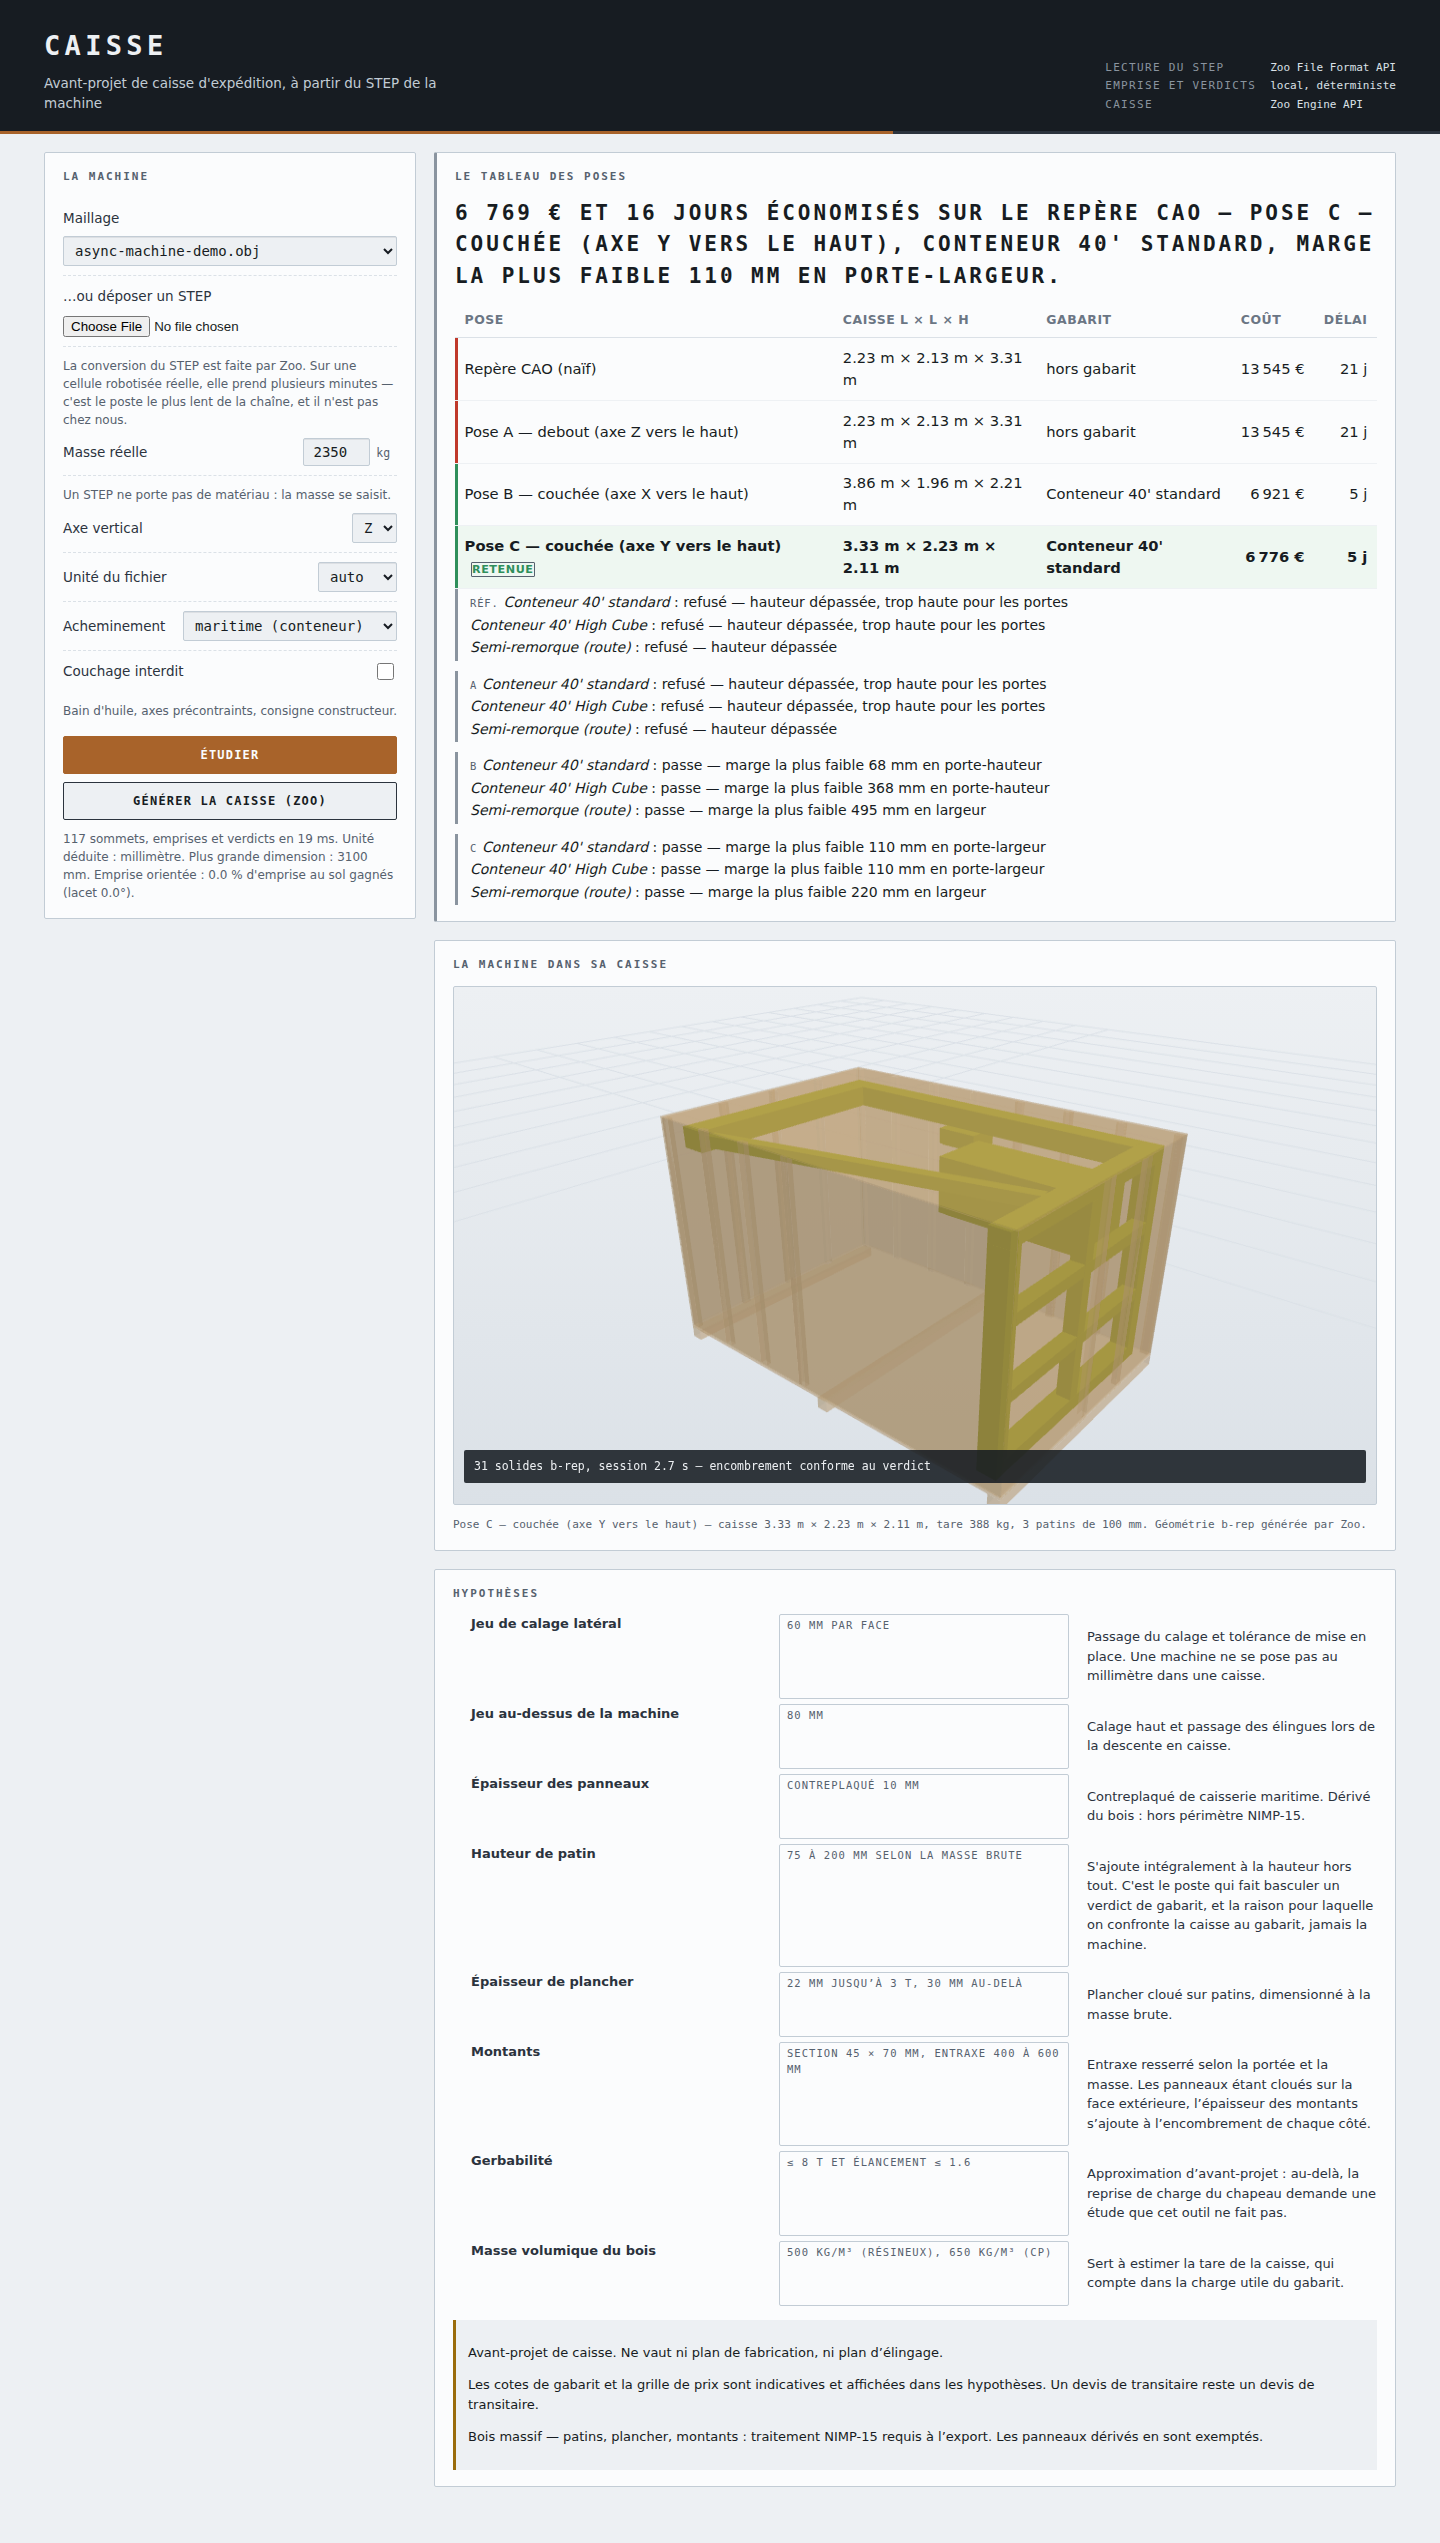
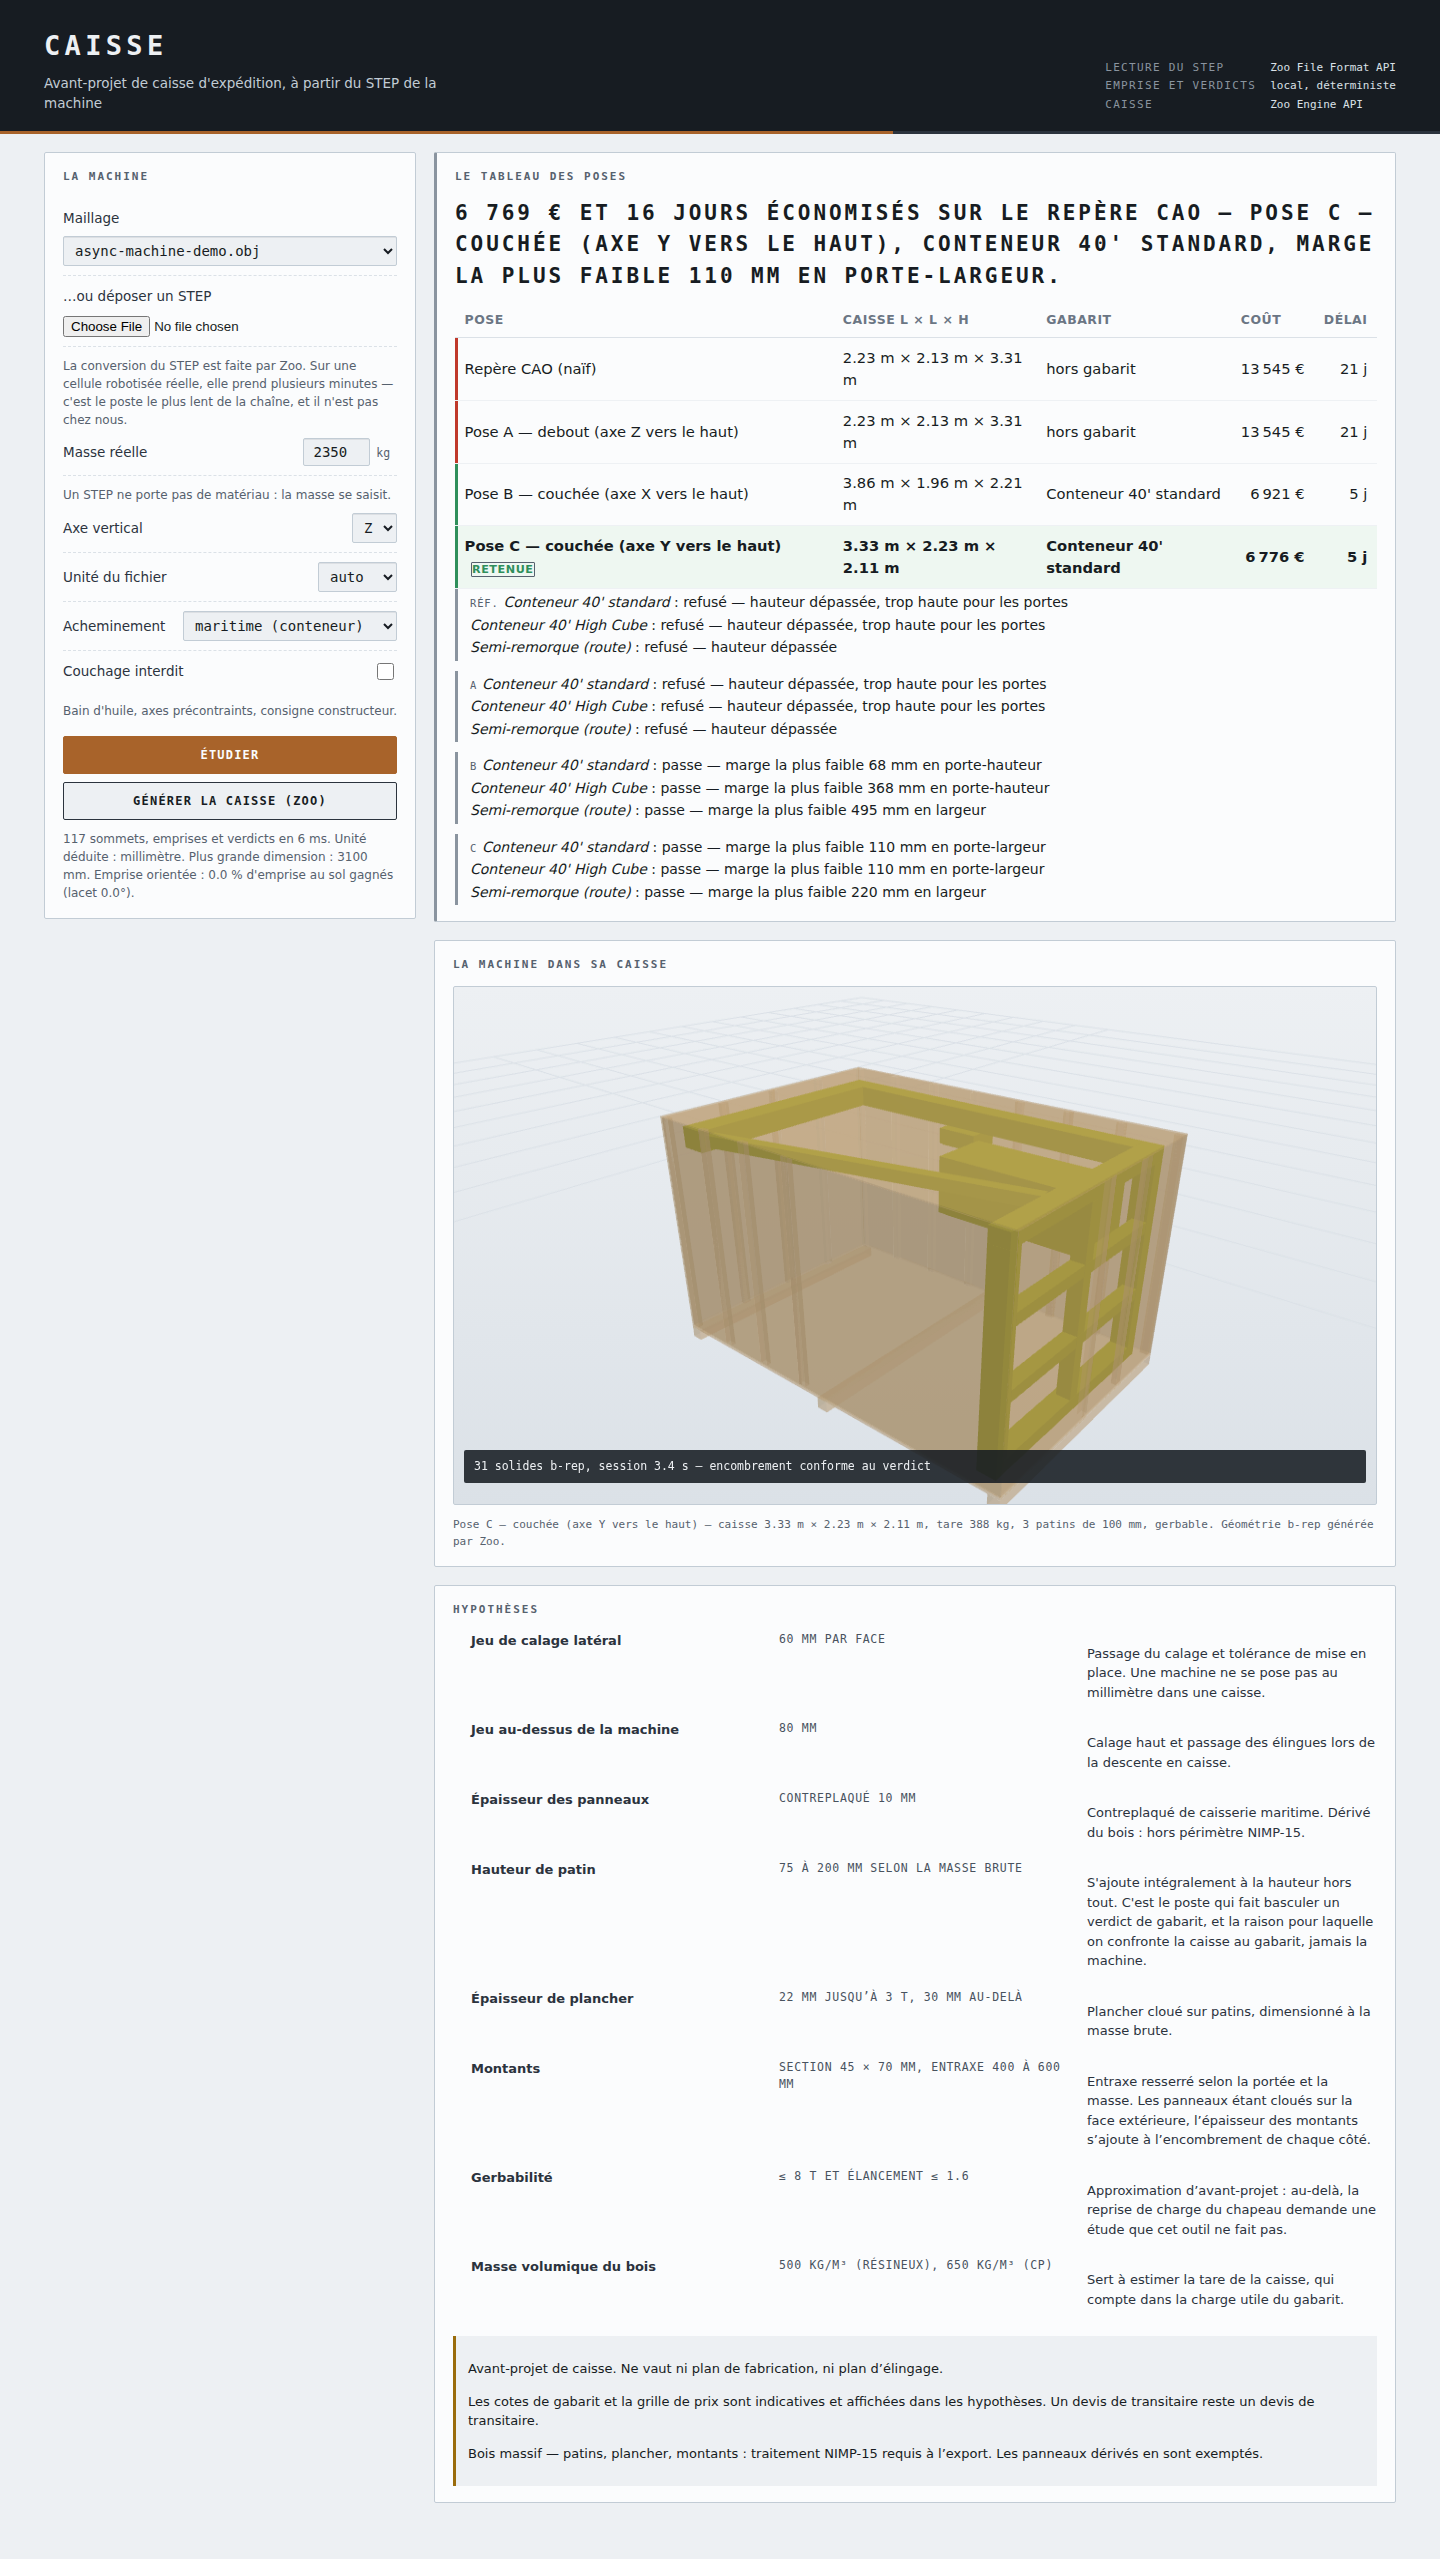
[+] Improved screen consistency and API robustness

diff --git a/public/app.js b/public/app.js
@@ -214,7 +214,8 @@ async function afficherPose(poseId, gltfNom) {
   const pose = etude.study.poses.find((p) => p.pose === poseId);
   $('legende').textContent = pose
     ? `${pose.label} — caisse ${m(pose.crate.outer.lengthMm)} × ${m(pose.crate.outer.widthMm)} × ${m(pose.crate.outer.heightMm)}, ` +
-      `tare ${pose.crate.tareKg} kg, ${pose.crate.skidCount} patins de ${pose.crate.skid.heightMm} mm.` +
+      `tare ${pose.crate.tareKg} kg, ${pose.crate.skidCount} patins de ${pose.crate.skid.heightMm} mm, ` +
+      `${pose.stackable ? 'gerbable' : 'non gerbable'}.` +
       (gltfNom ? ' Géométrie b-rep générée par Zoo.' : ' Aperçu local — cliquez « Générer la caisse » pour la géométrie Zoo.')
     : '';
 }
@@ -231,17 +232,29 @@ function rendreTableau() {
       // à arbitrer. Le poser pour 38 € de contreplaqué apprend au lecteur à
       // ignorer nos recommandations, y compris le jour où elles comptent.
       const meilleure = s.best && s.best.pose === p.pose && s.arbitrage === 'gabarit';
-      const classe = p.forbidden ? 'ligne-ecartee' : passe ? 'ligne-verte' : 'ligne-rouge';
+      // Une pose qui ne passe pas dans le mode demandé mais passe dans l'autre
+      // n'est pas « hors gabarit » : elle est hors **de ce mode-ci**. La
+      // nuance vaut plusieurs milliers d'euros, et le tableau doit la porter.
+      const autre = !passe && !p.forbidden && p.otherMode;
+      const classe = p.forbidden ? 'ligne-ecartee' : passe ? 'ligne-verte' : autre ? 'ligne-autre' : 'ligne-rouge';
       const serre = passe && p.retained.confidence === 'juste';
       return `
         <tr class="${classe} ${meilleure ? 'ligne-retenue' : ''}" data-pose="${p.pose}" title="Cliquer pour voir cette pose en 3D">
           <td>${p.label}${meilleure ? ' <span class="cran">retenue</span>' : ''}</td>
           <td>${m(p.crate.outer.lengthMm)} × ${m(p.crate.outer.widthMm)} × ${m(p.crate.outer.heightMm)}</td>
-          <td>${p.forbidden ? 'écartée' : passe ? p.retained.gabarit.label : 'hors gabarit'}${
-            serre ? ` <span class="cran cran-juste">${p.retained.tightestMarginMm} mm</span>` : ''
+          <td>${
+            p.forbidden
+              ? 'écartée'
+              : passe
+                ? p.retained.gabarit.label
+                : autre
+                  ? `${p.otherMode.gabarit.gabarit.label} <span class="cran">autre mode</span>`
+                  : 'hors gabarit'
+          }${serre ? ` <span class="cran cran-juste">${p.retained.tightestMarginMm} mm</span>` : ''}</td>
+          <td class="nombre">${p.forbidden ? '—' : eur(autre ? p.otherMode.costing.totalEur : p.costing.totalEur)}</td>
+          <td class="nombre">${
+            p.forbidden ? '—' : `${(autre ? p.otherMode.costing : p.costing).leadTimeDays} j`
           }</td>
-          <td class="nombre">${p.forbidden ? '—' : eur(p.costing.totalEur)}</td>
-          <td class="nombre">${p.forbidden ? '—' : `${p.costing.leadTimeDays} j`}</td>
         </tr>`;
     })
     .join('');
@@ -310,8 +323,14 @@ function rendreTableau() {
     )
     .join('');
 
+  // Valeurs en texte, pas dans un cadre qui ressemble à un champ de saisie :
+  // la table est en lecture seule (§10), autant que ça se voie. Une fausse
+  // affordance est pire qu'une absence d'affordance.
   $('hypotheses').innerHTML = s.assumptions
-    .map((a) => `<div class="fiche"><strong>${a.label}</strong><span class="source">${a.value}</span><p>${a.rationale}</p></div>`)
+    .map(
+      (a) =>
+        `<div class="fiche"><strong>${a.label}</strong><span class="valeur-hypothese">${a.value}</span><p>${a.rationale}</p></div>`
+    )
     .join('');
 
   $('mentions').innerHTML = s.notices.map((n) => `<p>${n}</p>`).join('');
@@ -353,7 +372,9 @@ $('formulaire').addEventListener('submit', async (e) => {
     $('generer').disabled = false;
 
     rendreTableau();
-    await afficherPose(etude.study.best?.pose ?? 'A', null);
+    // La pose montrée est celle qu'on recommande. Afficher la machine debout
+    // pendant qu'on explique qu'il faut la coucher vide le propos.
+    await afficherPose(etude.study.best?.pose ?? etude.study.otherMode?.pose ?? 'A', null);
 
     $('etat-calcul').textContent =
       `${etude.vertices.toLocaleString('fr-FR')} sommets, emprises et verdicts en ${etude.ms} ms. ` +

diff --git a/src/serveur.ts b/src/serveur.ts
@@ -87,23 +87,57 @@ async function meshes(): Promise<string[]> {
   }
 }
 
-async function etude(body: EtudeBody) {
-  const name = body.mesh ?? 'async-kuka_kr600_r2830.obj';
-  if (basename(name) !== name) throw new Error('Nom de maillage invalide.');
+/**
+ * Bornes de saisie, alignées sur celles du formulaire.
+ *
+ * Une API plus permissive que son formulaire n'est pas une API souple, c'est
+ * une API dont on ne sait plus ce qu'elle accepte.
+ */
+const MASSE_MIN_KG = 1;
+const MASSE_MAX_KG = 100_000;
 
-  const massKg = Number(body.massKg);
-  if (!Number.isFinite(massKg) || massKg <= 0) {
-    // Un STEP ne porte pas de matériau. Le demander montre qu'on le sait (§5).
-    throw new Error('Masse invalide : un STEP ne porte pas de matériau, elle doit être saisie.');
+function unDe<T extends string>(valeur: unknown, permis: readonly T[], champ: string): T {
+  if (typeof valeur === 'string' && (permis as readonly string[]).includes(valeur)) return valeur as T;
+  throw new Error(`Champ « ${champ} » invalide : attendu ${permis.join(', ')}.`);
+}
+
+async function etude(body: EtudeBody) {
+  // Pas de maillage par défaut : une requête sans `mesh` renvoyait une étude
+  // complète et parfaitement plausible sur un tout autre fichier. Un résultat
+  // faux et crédible est pire qu'une erreur.
+  const name = body.mesh;
+  if (typeof name !== 'string' || name.length === 0) {
+    throw new Error('Champ « mesh » manquant : indiquez le maillage à étudier.');
+  }
+  if (basename(name) !== name || !name.endsWith('.obj')) {
+    throw new Error('Nom de maillage invalide.');
   }
 
+  const massKg = Number(body.massKg);
+  if (!Number.isFinite(massKg) || massKg < MASSE_MIN_KG || massKg > MASSE_MAX_KG) {
+    // Un STEP ne porte pas de matériau. Le demander montre qu'on le sait (§5).
+    throw new Error(
+      `Masse invalide : un STEP ne porte pas de matériau, elle doit être saisie, entre ${MASSE_MIN_KG} et ${MASSE_MAX_KG.toLocaleString('fr-FR')} kg.`
+    );
+  }
+
+  const up = unDe(body.up ?? 'z', ['x', 'y', 'z'] as const, 'up');
+  const unit = unDe(body.unit ?? 'auto', ['auto', 'mm', 'm', 'in'] as const, 'unit');
+  const mode = unDe(body.mode ?? 'maritime', ['maritime', 'route'] as const, 'mode');
+
   const t0 = performance.now();
-  const cloud = parseObjVertices(await readFile(join('out', name), 'utf8'));
-  const geometry = buildPoses(cloud, body.up ?? 'z', body.unit ?? 'auto');
+  const objet = await readFile(join('out', name), 'utf8').catch(() => {
+    // Jamais l'erreur système : elle expose l'arborescence du serveur et ne dit
+    // rien d'utile à qui lit l'écran.
+    throw new Error(`Maillage introuvable : « ${name} ». Convertissez d'abord un STEP.`);
+  });
+
+  const cloud = parseObjVertices(objet);
+  const geometry = buildPoses(cloud, up, unit);
   const result = study({
     poses: geometry.poses,
     massKg,
-    mode: body.mode ?? 'maritime',
+    mode,
     forbidLying: body.forbidLying === true,
   });
 

diff --git a/src/moteur/etude.ts b/src/moteur/etude.ts
@@ -73,6 +73,11 @@ function evaluatePose(
     ? costForGabarit(crate, retained)
     : { ...costOversize(crate) };
 
+  // Ce que la même pose donnerait dans l'autre mode : la colonne du tableau
+  // doit pouvoir le dire elle-même, sans dépendre du bandeau.
+  const autre: ShippingMode = mode === 'maritime' ? 'route' : 'maritime';
+  const checkAutre = forbidden || retained ? undefined : cheapestFit(checks, autre);
+
   return {
     pose: input.pose,
     label: input.label,
@@ -81,6 +86,7 @@ function evaluatePose(
     checks,
     retained,
     costing,
+    otherMode: checkAutre ? { gabarit: checkAutre, costing: costForGabarit(crate, checkAutre) } : undefined,
     stackable: isStackable(crate) && (retained?.gabarit.stackable ?? false),
     forbidden,
   };
@@ -168,22 +174,18 @@ export function study(input: StudyInput): Study {
     // n'entre. C'est une proposition, pas une décision — la destination n'est
     // pas une variable d'ajustement.
     const other: ShippingMode = mode === 'maritime' ? 'route' : 'maritime';
-    const alternatives = poses
-      .filter((p) => p.pose !== 'reference' && !p.forbidden)
-      .map((p) => ({ pose: p, check: cheapestFit(p.checks, other) }))
-      .filter((a): a is { pose: PoseResult; check: NonNullable<typeof a.check> } => a.check !== undefined)
-      .map((a) => ({ ...a, costing: costForGabarit(a.pose.crate, a.check) }))
-      .sort((a, b) => a.costing.totalEur - b.costing.totalEur);
+    const alternative = poses
+      .filter((p) => p.pose !== 'reference' && p.otherMode)
+      .sort((a, b) => a.otherMode!.costing.totalEur - b.otherMode!.costing.totalEur)[0];
 
-    const alternative = alternatives[0];
     if (alternative) {
       study.otherMode = {
         mode: other,
-        pose: alternative.pose.pose,
-        label: alternative.pose.label,
-        gabaritLabel: alternative.check.gabarit.label,
-        marginMm: alternative.check.tightestMarginMm,
-        costing: alternative.costing,
+        pose: alternative.pose,
+        label: alternative.label,
+        gabaritLabel: alternative.otherMode!.gabarit.gabarit.label,
+        marginMm: alternative.otherMode!.gabarit.tightestMarginMm,
+        costing: alternative.otherMode!.costing,
       };
     }
 

diff --git a/src/domain/types.ts b/src/domain/types.ts
@@ -151,9 +151,18 @@ export interface PoseResult {
   crate: Crate;
   /** Tous les gabarits testés, dans l'ordre du moins cher au plus cher. */
   checks: GabaritCheck[];
-  /** Le premier gabarit qui passe, s'il y en a un. */
+  /** Le gabarit retenu dans le mode demandé, s'il y en a un. */
   retained?: GabaritCheck;
   costing: Costing;
+  /**
+   * Ce que cette pose donnerait dans **l'autre** mode d'acheminement.
+   *
+   * Sans cela, la colonne « gabarit » affiche « hors gabarit » sur une ligne
+   * dont le bandeau dit, deux centimètres plus haut, qu'elle passe en
+   * semi-remorque. Qui lit le tableau sans lire le bandeau repart avec la
+   * mauvaise réponse.
+   */
+  otherMode?: { gabarit: GabaritCheck; costing: Costing };
   /** La caisse est-elle gerbable une fois chargée ? */
   stackable: boolean;
   /** Pose écartée par l'utilisateur : couchage interdit (§5). */

diff --git a/src/moteur/moteur.test.ts b/src/moteur/moteur.test.ts
@@ -168,6 +168,13 @@ test('quand aucun conteneur ne passe, une solution routière est proposée avant
 
   assert.equal(result.best, undefined, 'rien ne passe en maritime');
   assert.ok(result.otherMode, 'mais la route est proposée');
+
+  // Et la pose elle-même porte sa solution : la colonne du tableau ne doit pas
+  // afficher « hors gabarit » sur une ligne dont le bandeau dit qu'elle passe.
+  const pose = result.poses.find((p) => p.pose === 'C')!;
+  assert.ok(pose.otherMode, 'la pose porte l’option de l’autre mode');
+  assert.equal(pose.otherMode.gabarit.gabarit.id, 'semi');
+  assert.ok(pose.otherMode.costing.totalEur < pose.costing.totalEur);
   assert.equal(result.otherMode.mode, 'route');
   assert.equal(result.otherMode.gabaritLabel, 'Semi-remorque (route)');
   assert.ok(result.otherMode.marginMm > 0);

diff --git a/public/style.css b/public/style.css
@@ -684,3 +684,18 @@ summary:focus-visible {
 .tableau-poses .cran-juste {
   color: #b06a12;
 }
+
+/* Une pose qui passe dans l'autre mode d'acheminement : ni verte, ni rouge. */
+.ligne-autre td:first-child {
+  box-shadow: inset 3px 0 0 #b06a12;
+}
+
+/* Valeur d'hypothèse : du texte, pas un champ. La table est en lecture seule,
+   et un cadre blanc invite à cliquer dedans pour rien. */
+.valeur-hypothese {
+  font-family: var(--mono);
+  font-size: 11.5px;
+  letter-spacing: 0.06em;
+  text-transform: uppercase;
+  color: #48525e;
+}
